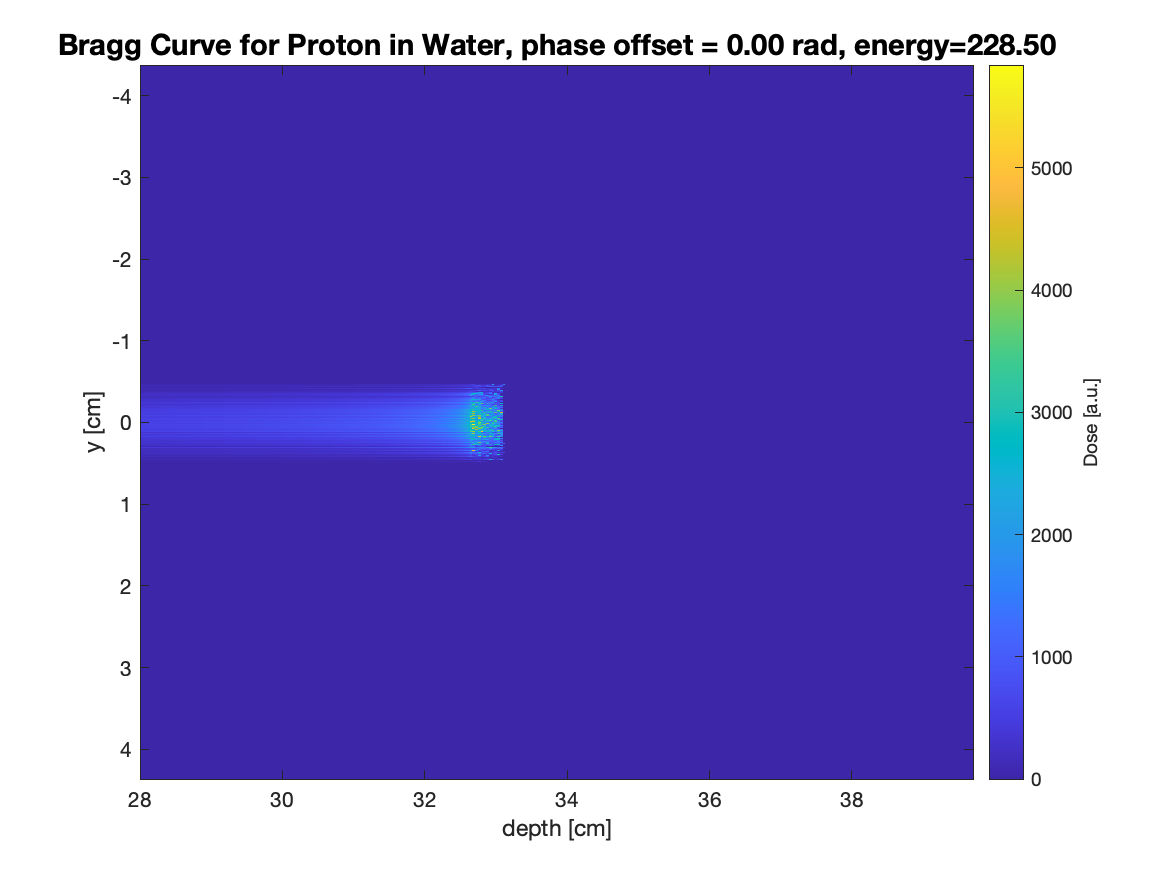
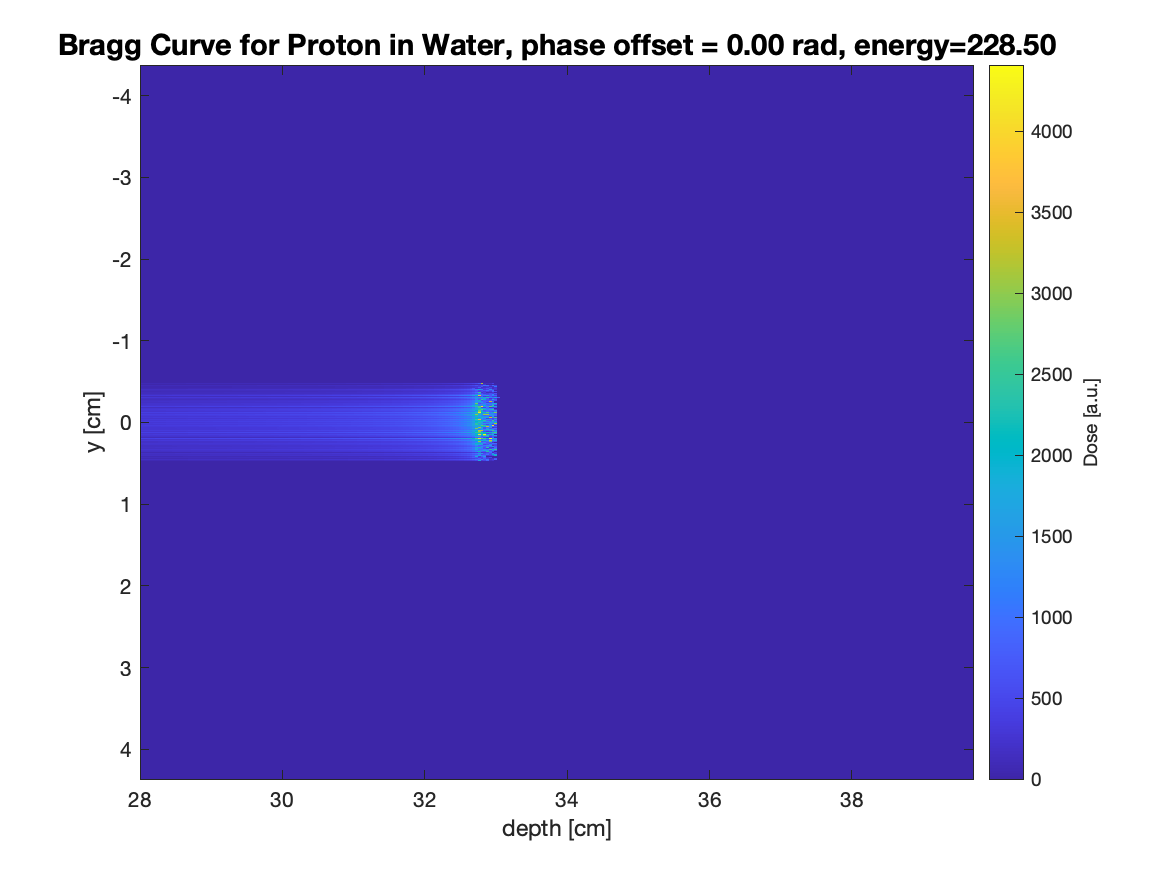
making images for nongaussian beams

diff --git a/beamRFoverlap.m b/beamRFoverlap.m
@@ -57,44 +57,187 @@ xNoRF_kept = xNoRF(idx_keep);
 yNoRF_kept = yNoRF(idx_keep);
 ENoRF_kept = ENoRF(idx_keep);
 %length(ENoRF_kept)
+
+%combine
+z_combined=[zNoRF_kept;z_top];
+E_combined=[ENoRF_kept;E_top];
+y_combined=[yNoRF_kept;y_top]*100;
+x_combined=[xNoRF_kept;x_top]*100;
+
+
 %%plot 
-figure;
-hold on;
-histogram([ENoRF_kept;E_top], 100, 'FaceColor', "#7E2F8E", 'DisplayName', sprintf('combined')); %concatenate
-
-histogram(E_top, 100, 'FaceColor', "#0072BD", 'DisplayName','RF');
-
-histogram(ENoRF_kept, 50, 'FaceColor', "#77AC30", 'DisplayName', sprintf('No RF'));
-
-hold off;
-xlabel('Energy [Mev]');
-ylabel('counts [simulated particles]');
-legend();
-
-figure;
-hold on;
-%scatter([zNoRF_kept;z_top],[ENoRF_kept;E_top], 'Color', "#7E2F8E", 'DisplayName', sprintf('combined')); %concatenate
-
-scatter(z_top, E_top,'Color', "#0072BD", 'DisplayName','RF');
-
-scatter(zNoRF_kept,ENoRF_kept, 'Color', "#0072BD", 'DisplayName', sprintf('No RF'));
-
-hold off;
-xlabel('z [cm]');
-ylabel('Energy [Mev]');
-legend();
-
-
-figure;
-hold on;
-%scatter([zNoRF_kept;z_top],[ENoRF_kept;E_top], 'Color', "#7E2F8E", 'DisplayName', sprintf('combined')); %concatenate
-
-%scatter(y_top, E_top, 'DisplayName','RF','Color',"red",'Marker','*');
-%scatter(yNoRF_kept,ENoRF_kept, 'DisplayName', sprintf('No RF'),'Color',"red",'Marker','+');
-
-scatter([yNoRF_kept;y_top],[ENoRF_kept;E_top])
-hold off;
-xlabel('y [cm]');
-ylabel('Energy [Mev]');
-legend();
+% figure;
+% hold on;
+% histogram([ENoRF_kept;E_top], 100, 'FaceColor', "#7E2F8E", 'DisplayName', sprintf('combined')); %concatenate
+% 
+% histogram(E_top, 100, 'FaceColor', "#0072BD", 'DisplayName','RF');
+% 
+% histogram(ENoRF_kept, 50, 'FaceColor', "#77AC30", 'DisplayName', sprintf('No RF'));
+% 
+% hold off;
+% xlabel('Energy [Mev]');
+% ylabel('counts [simulated particles]');
+% legend();
+% 
+% figure;
+% hold on;
+% %scatter([zNoRF_kept;z_top],[ENoRF_kept;E_top], 'Color', "#7E2F8E", 'DisplayName', sprintf('combined')); %concatenate
+% 
+% scatter(z_top, E_top,'Color', "#0072BD", 'DisplayName','RF');
+% 
+% scatter(zNoRF_kept,ENoRF_kept, 'Color', "#0072BD", 'DisplayName', sprintf('No RF'));
+% 
+% hold off;
+% xlabel('z [cm]');
+% ylabel('Energy [Mev]');
+% legend();
+% 
+% 
+% figure;
+% hold on;
+% %scatter([zNoRF_kept;z_top],[ENoRF_kept;E_top], 'Color', "#7E2F8E", 'DisplayName', sprintf('combined')); %concatenate
+% 
+% %scatter(y_top, E_top, 'DisplayName','RF','Color',"red",'Marker','*');
+% %scatter(yNoRF_kept,ENoRF_kept, 'DisplayName', sprintf('No RF'),'Color',"red",'Marker','+');
+% 
+% scatter([yNoRF_kept;y_top],[ENoRF_kept;E_top])
+% hold off;
+% xlabel('y [cm]');
+% ylabel('Energy [Mev]');
+% legend();
 %need to feed this into making an image to do reconstruction with
+
+%%make the output image
+
+newWidth = 1292;
+newHeight = 964;
+%real camera calibration ruler photo 1292x964 pixels, 18.5cm-6.8cm
+realwidth=18.5-6.8; %in width
+realpixelsize=realwidth/newWidth;
+realyrange=realpixelsize*newHeight;
+
+mevion_25nA=false;
+mevion_1nA=true;
+
+if mevion_1nA==true
+    xrms0 = 3.495/1000 ;%m 4.9mm
+    %based on mevion numbers this will be ~3-4mm at 1nA or 5-6mm at 25 nA
+    yrms0 = 4.007/1000; %m 6mm
+    %divergence of beam
+    divangx0 = (3.794-3.496)/120; %.58; %change in x [mm] over 12 cm
+    divangy0 = (4.299-4.007)/120; % .67;
+end  
+if mevion_25nA==true
+    xrms0 = 4.906/1000 ;%m 4.9mm
+    %based on mevion numbers this will be ~3-4mm at 1nA or 5-6mm at 25 nA
+    yrms0 = 6.039/1000; %m 6mm
+    %divergence of beam
+    divangx0 = (5.198-4.906)/120; %.58; %change in x [mm] over 12 cm
+    divangy0 = (6.289-6.039)/120; % .67;
+end 
+yrms0=yrms0*100; %cm
+xrms0=xrms0*100; %cm
+A_beam=pi*xrms0*yrms0; %cm^2
+rho=1;
+
+num_particles = length(z_combined);
+
+% --- Setup dose grid ---
+z_max = 50;                  
+num_z = newWidth;                
+z_vals = linspace(0, z_max, num_z); 
+dx=z_max/num_z;
+
+% Increase y_bins range if needed
+realyrange=8.7297;
+y_bins = linspace(-realyrange/2, realyrange/2, newHeight);  % Wide enough to show thin beam
+dose_map = zeros(num_z, length(y_bins));    % z vs y (dose map)
+
+% --- Accumulate dose per particle ---
+for i = 1:num_particles
+    % Compute dose profile for this particle
+    dose_profile = computeDoseBetheBloch(E_combined(i),dx,num_z,rho,A_beam);
+    
+    % Find the nearest y-bin index for this particle's y position
+    [~, y_idx] = min(abs(y_bins - y_combined(i)));
+    
+    % Accumulate the dose for the corresponding y-bin
+    dose_map(:, y_idx) = dose_map(:, y_idx) + dose_profile;
+    i;
+end
+
+% --- Plot result ---
+figure;
+dose_map;
+imagesc(z_vals,y_bins, transpose(dose_map));
+% xlabel('Z Position (cm)');
+% ylabel('Y Position (cm)');
+% colorbar;
+
+
+ylabel('y [cm]');
+xlabel('depth [cm]');
+xmin=28;
+xlim([xmin,xmin+11.7]);
+ylim([-realyrange/2,realyrange/2]); 
+a=colorbar;
+a.Label.String = 'Dose [a.u.]';
+title(sprintf('Bragg Curve for Proton in Water, phase offset = %.2f rad, energy=%.2f', phioffsetE,energy0), 'FontSize', 14);
+%set(gca,'XTick',[], 'YTick', [],'Visible', 'off', 'Color','none');
+saveas(gcf,sprintf('%sBraggIm_unknownoverlap.png', masterfilename))
+
+%%Functions
+function dose = computeDoseBetheBloch(E0, dx,num_z,rho,A_beam)
+    dose_vals = zeros(num_z(:));
+    E_new=E0;
+    for ii = 2:num_z  
+        dEdX = calc_stoppingpower(E_new);
+        E_loss = dEdX * dx;
+        E_new = E_new - E_loss;
+        dEdX_new=calc_stoppingpower(E_new);
+        dose_vals(ii)= 1/rho*dEdX_new*1/A_beam;
+    end
+    dose=transpose(dose_vals(1:num_z));
+    size(dose);
+end
+
+
+% Function to calculate beta^2
+function beta2 = calcbeta2(E, A, e_0)
+    beta2 = 1 - (e_0^2 / (e_0 + E/A)^2);
+    % Ensure beta^2 is valid
+    if beta2 < 0
+        beta2 = 0; % Set to 0 if beta^2 is negative
+    end
+end
+ 
+% % Function to calculate W_max (maximum energy transfer)
+function W_max = calcW_max(E, A, mec2, e_0)
+    beta_val2 = calcbeta2(E, A, e_0);
+    % Prevent invalid values for W_max
+    if beta_val2 >= 1
+        W_max = 0; % Set to 0 if invalid
+    else
+        W_max = 2 * (mec2) * beta_val2 / (1 - beta_val2); % MeV
+    end
+end
+
+% % Function to calculate stopping power (dE/dx)
+function dEdX = calc_stoppingpower(E_val)
+    I = 75 *10^(-6); % MeV or 80.8+-0.3
+    re = 2.817e-13; % classical electron radius in centimeters
+    mec2 = 0.511; % MeV (rest mass energy of electron)
+    q = 1; % charge of proton
+    e_0 = 931.5; % MeV
+    A = 1; % A for proton=1
+    n= 3.34*10^23; %electron density of water in 1/cc
+    const = 4*pi*n*re^2*mec2*q^2;
+    W_max_new = calcW_max(E_val, A, mec2, e_0);
+    if W_max_new <= I
+        dEdX = 0; % Set to 0 if W_max is too small or invalid
+    else
+        beta2 = calcbeta2(E_val, A, e_0);
+        % Stopping power formula with an increased dEdX near Bragg peak
+        dEdX = const / (beta2) * (log(W_max_new /(I)) - beta2);
+    end
+end

diff --git a/powertoffacmap.m b/powertoffacmap.m
@@ -10,7 +10,7 @@ for pp = 1:length(ffacs)
     ffac = ffacs(pp);
     disp(ffac)
     masterfilename = sprintf('output_EnergyMod_phi%.2f_E%.2f_Esp%.2f_ffac%.2f', phioffsetE, energy0, energyspreadpercent,ffac);
-    masterfilename = sprintf('output_EnergyMod_phi%.2f_E%.2f_Esp%.2f', phioffsetE, energy0, energyspreadpercent);
+    %masterfilename = sprintf('output_EnergyMod_phi%.2f_E%.2f_Esp%.2f', phioffsetE, energy0, energyspreadpercent);
     datafile=sprintf('%s.txt',masterfilename);
     masterfilename
     data = readtable(datafile);
@@ -29,7 +29,7 @@ for pp = 1:length(ffacs)
     shuntimpedance= 54.8e6; %Ohm/m
     fprintf('Max gradient %.2f MV/m \n', MaxGradSeen)
     %p_disp=max_E_diff^2/(2*shuntimpedance*2*length_cell)
-    p_disp=(MaxGradSeen*1000000)^2/(2*shuntimpedance); %W
+    p_disp=(MaxGradSeen*1000000)^2/(2*shuntimpedance); %W %%should there be a factor of 2??
     fprintf('Power calculated from max gradient %.2f MW \n', p_disp/1e6)
     fprintf('Power calculated from max gradient %.2f MW per cavity \n', p_disp/1e6/2)
     Avg_grad_calc = 15*sqrt(p_disp/100000);  %MV/m, assumes P is in W
